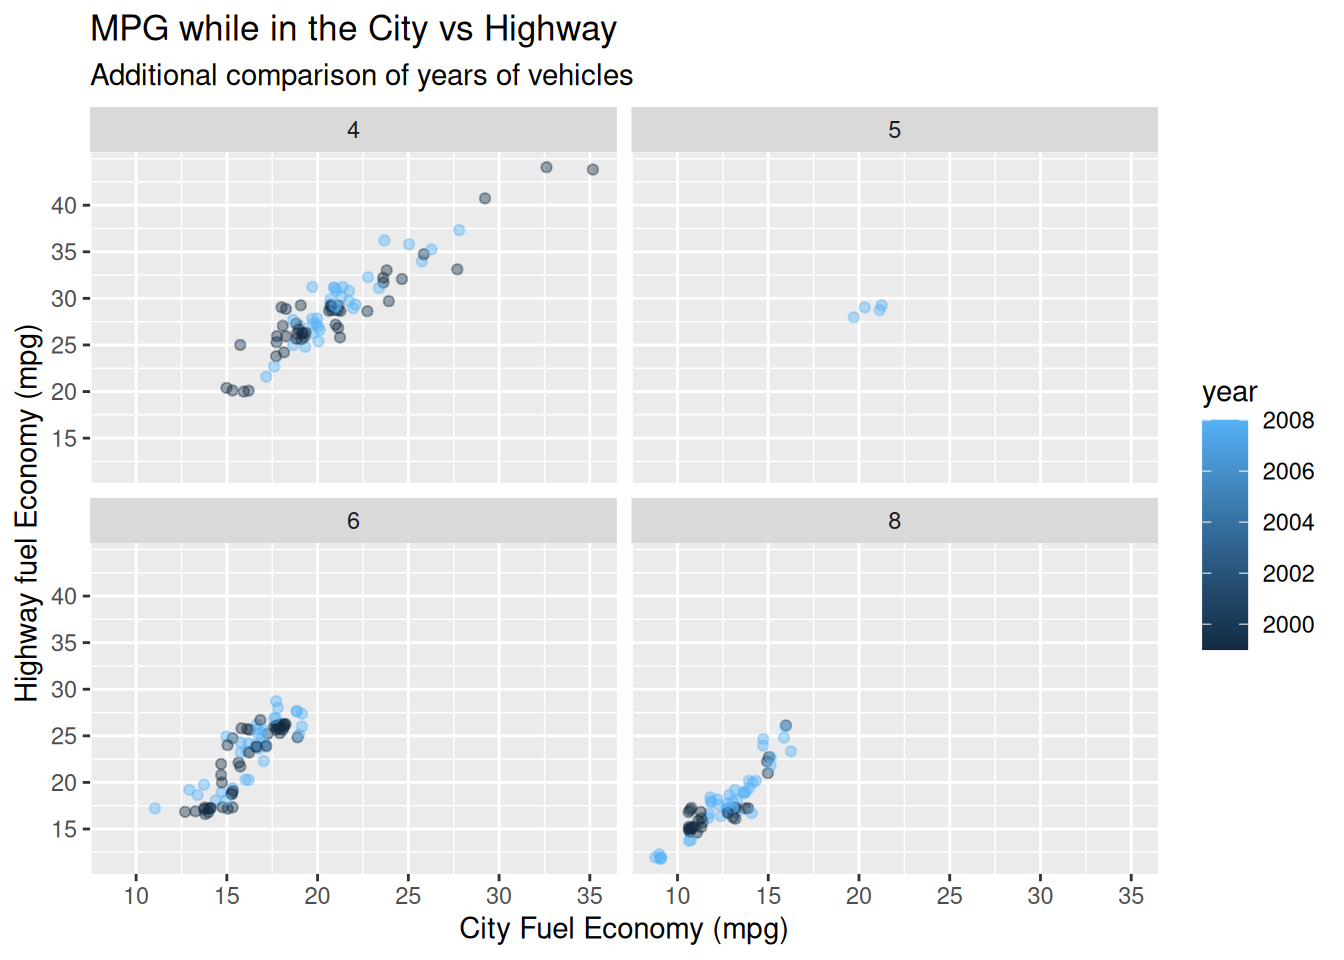
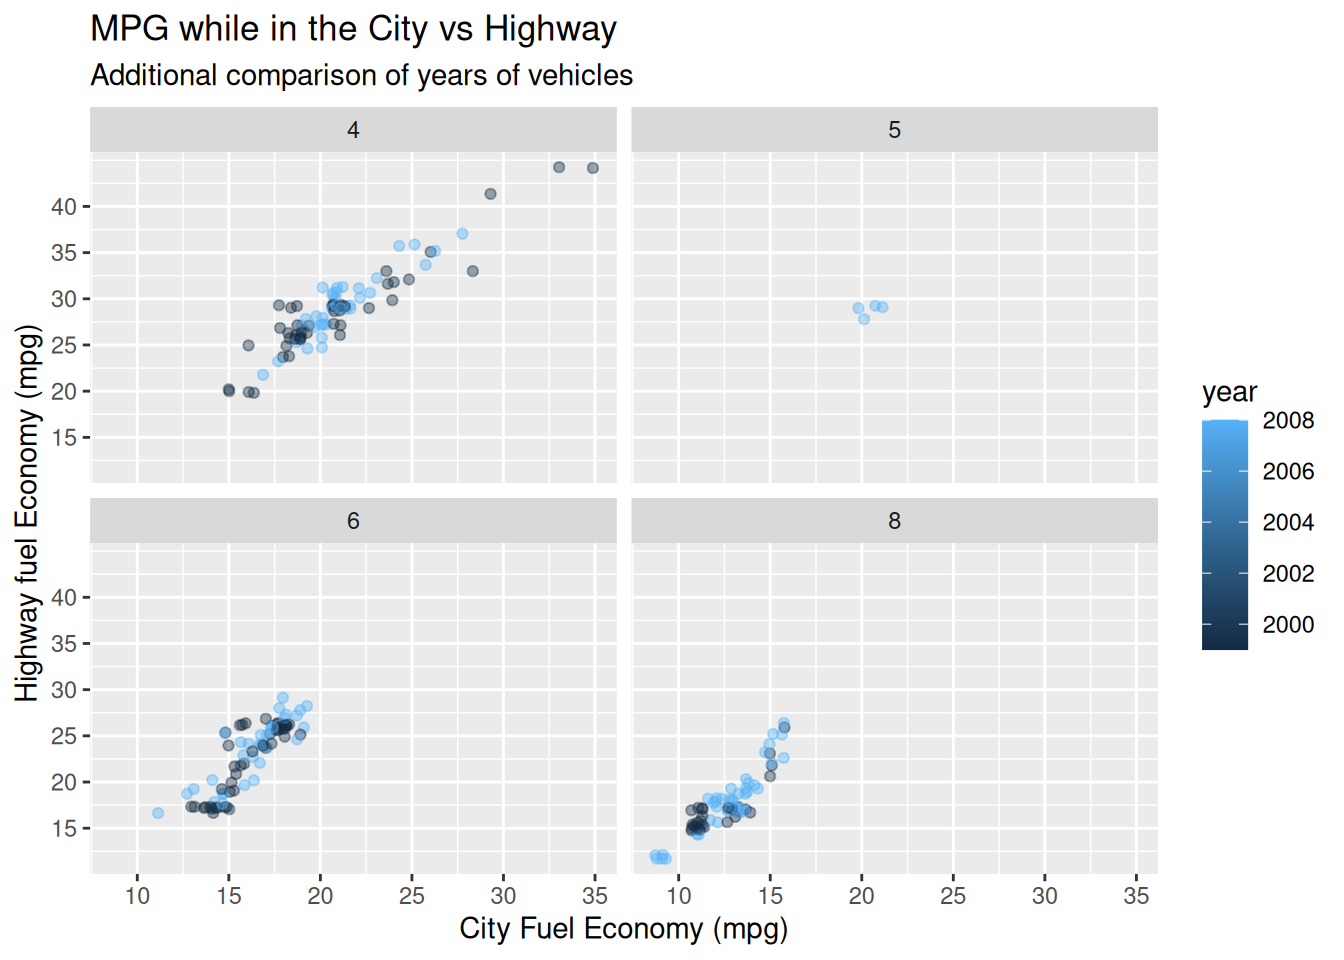
test

diff --git a/docs/posts/my_first_post/index.html b/docs/posts/my_first_post/index.html
@@ -157,11 +157,11 @@ ul.task-list li input[type="checkbox"] {
 
 
 
-<pre><code></code></pre>
 <p>A rapidly growing problem has been Earths environmental change. More specifically, the tremendous change in the Arctic for the past decades. To understand the rate and severity at which the Arctic is losing its sea ice, a 16 year long project was conducted, recording data every 30 minutes from 2006-2022.</p>
 <p>What data does this study record exactly, though?</p>
-<p>The melting of the ice is becoming exponentially quicker. Within the study, the amount of sunlight which was captured a certain distance beneath the surface of water was recorded. It is likely for one to hypothesize throughout the 16 years, the amount of sunlight which was recorded obviously increased due to the reduction of ice in each passing year.</p>
+<p>Within the study, the amount of sunlight which was captured a certain distance beneath the surface of water was recorded. It is likely for one to hypothesize throughout the 16 years, the amount of sunlight which was recorded increased due to the reduction of ice in each passing year.</p>
 <p>Along with the amount of sunlight being recorded, the temperature of the water was as well being recorded. Like the sunlight, it seems reasonable to assume that the temperature was to increase. Even if the difference seems minimal, the data set is only being taken from a 16 year sample, which is small relative to how long global warming has been affecting Earth.</p>
+<p>These two variables were recorded for 4 different sites. Two of these sites were in shallow waters, S1 shallow and S2 shallow. The other two were in deep water, S1 deep and S2 deep.</p>
 
 
 

diff --git a/docs/index.html b/docs/index.html
@@ -207,7 +207,7 @@ window.Quarto = {
 
 <div class="quarto-listing quarto-listing-container-default" id="listing-listing">
 <div class="list quarto-listing-default">
-<div class="quarto-post image-right" data-index="0" data-categories="cHJvamVjdCUyQ2dlbmVyYWw=" data-listing-date-sort="1787184000000" data-listing-file-modified-sort="1787242497729" data-listing-date-modified-sort="NaN" data-listing-reading-time-sort="1" data-listing-word-count-sort="177">
+<div class="quarto-post image-right" data-index="0" data-categories="cHJvamVjdCUyQ2dlbmVyYWw=" data-listing-date-sort="1787184000000" data-listing-file-modified-sort="1787243860296" data-listing-date-modified-sort="NaN" data-listing-reading-time-sort="1" data-listing-word-count-sort="200">
 <div class="thumbnail"><a href="./posts/my_first_post/index.html" class="no-external">
 
 <p class="card-img-top"><img src="images/logo.png"  class="thumbnail-image card-img"/></p>
